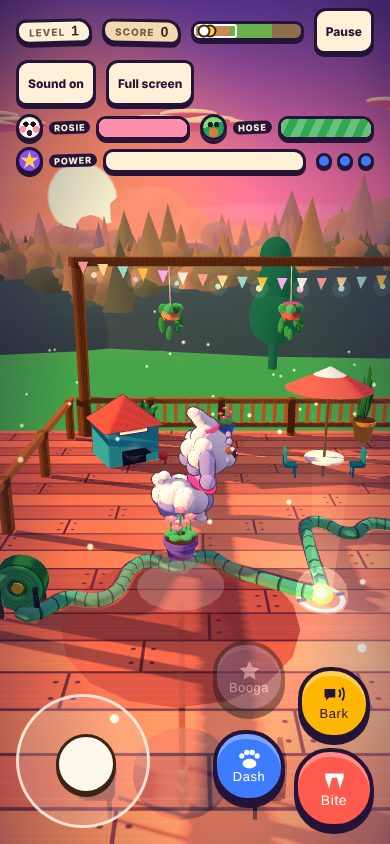
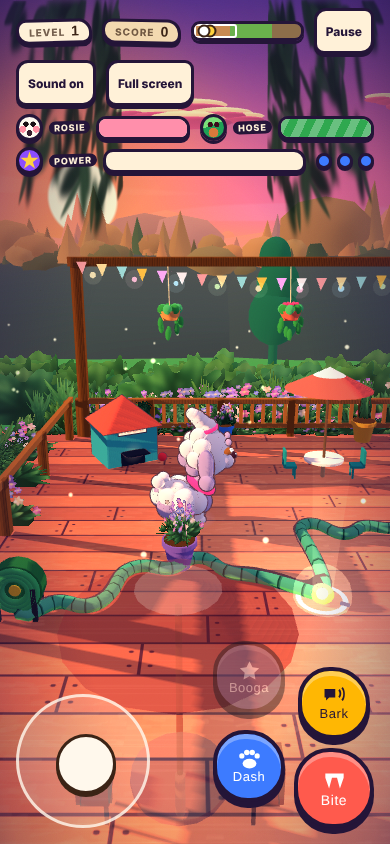
chore: checkpoint painted foliage in progress
Painted billboard foliage, framing leaves and planting density from
design/art/painted-garden.md, while the pass finishes its regression
checks and converts the remaining primitive trees.

Refs: design/art/painted-garden.md

Claude-Session: https://claude.ai/code/session_01JR8fsw3Uh5kViP8MJWMfnz

diff --git a/src/index.html b/src/index.html
@@ -1292,9 +1292,9 @@ let renderer;try{renderer=new THREE.WebGLRenderer({canvas:$('gl'),antialias:true
 renderer.outputEncoding=THREE.sRGBEncoding;renderer.shadowMap.enabled=true;renderer.shadowMap.type=THREE.PCFSoftShadowMap;
 /* ---------- 3D world (three.js) ---------- */
 const zOf=y=>(y-GY0)*DZ,DEPTH=zOf(GY1),UP=new THREE.Vector3(0,1,0);
-const scene=new THREE.Scene();scene.background=new THREE.Color('#ffb062');scene.fog=new THREE.Fog('#ff9a74',1900,6000);
+const scene=new THREE.Scene();scene.background=new THREE.Color('#ffb062');scene.fog=new THREE.Fog('#ff9a74',1500,6000);
 const cam=new THREE.PerspectiveCamera(50,1,10,12000);
-const hemi=new THREE.HemisphereLight('#e08ac0','#3a2a78',.34);scene.add(hemi);const fill=new THREE.DirectionalLight('#6f8fff',.34);scene.add(fill,fill.target);
+const hemi=new THREE.HemisphereLight('#e08ac0','#3a2a78',.40);scene.add(hemi);const fill=new THREE.DirectionalLight('#6f8fff',.34);scene.add(fill,fill.target);
 const sun=new THREE.DirectionalLight('#ff9e63',1.25);sun.castShadow=true;sun.shadow.mapSize.set(/Mobi|Android|iPhone|iPad/i.test(navigator.userAgent)?1024:2048,/Mobi|Android|iPhone|iPad/i.test(navigator.userAgent)?1024:2048);sun.shadow.bias=-.0008;sun.shadow.normalBias=1.5;
 {const s=sun.shadow.camera;s.left=-1000;s.right=1000;s.top=1000;s.bottom=-1000;s.near=100;s.far=3200;}scene.add(sun,sun.target);
 /* art v2: no point lights; lanterns, bulbs and windows are unlit glow shapes */
@@ -1322,6 +1322,140 @@ function flat(geo,mat,x,y,z){geo.rotateX(-Math.PI/2);const m=new THREE.Mesh(geo,
 function ctex(w,h,rx,ry,paint){const c=document.createElement('canvas');c.width=w;c.height=h;paint(c.getContext('2d'));const tx=new THREE.CanvasTexture(c);tx.wrapS=tx.wrapT=THREE.RepeatWrapping;tx.repeat.set(rx,ry);tx.encoding=THREE.sRGBEncoding;tx.anisotropy=4;return tx;}
 let s2=77;const r2=()=>{s2=(s2*16807)%2147483647;return (s2-1)/2147483646};
 const anim=[];
+/* ====================== painted-garden.md item 1: the foliage atlas ======================
+   One 1024x1024 runtime canvas, 4x4 cells of 256. Every cell is built from individual tapered
+   leaf/petal strokes so the silhouette is ragged at the pixel level -- that edge frequency, not
+   colour, is what separates "painted" from "moulded". Hue reservation (section 3) is enforced
+   here: no cell paints anything in #ffb062-#ffd23f (weak spot) or within 25 deg of #ff0f46
+   (warnings). Flower petals are lilac / rose / white / blue-violet only.
+   Cells 0-3 bushes, 4-6 flower clumps, 7-8 ferns, 9-11 grass tufts, 12-13 ivy, 14-15 far (blurred). */
+const FCU=i=>[(i%4)*.25,.75-Math.floor(i/4)*.25];
+const FOL_TEX=ctex(1024,1024,1,1,g=>{
+  const S=256;
+  const PAL=[['#15301f','#255436','#3f8249','#5fa85c'],['#1a3524','#2c5f3b','#4a8f51','#6fb766'],
+             ['#122b1c','#21502f','#3b7a44','#79bd6e'],['#1e3a27','#306844','#53995a','#86c67a'],
+             ['#17321e','#28583a','#44864c','#6aae62']];
+  const PET=[['#cfa9ec','#b78ae0','#9c76cf'],['#f0a2d2','#e086c2','#c96fae'],['#f7f3ea','#e7decb','#cfc4ae'],['#a9b4ea','#8d9ae0','#7480cc']];
+  const bl=(c,x0,y0,len,ang,wid,p,lift)=>{ // one tapered leaf stroke, base-dark / tip-lit
+    const tx=x0+Math.cos(ang)*len,ty=y0+Math.sin(ang)*len,mx=(x0+tx)/2,my=(y0+ty)/2,
+          nx=-Math.sin(ang)*wid,ny=Math.cos(ang)*wid;
+    const gr=c.createLinearGradient(x0,y0,tx,ty);
+    gr.addColorStop(0,p[0]);gr.addColorStop(.45,p[1]);gr.addColorStop(.82,p[2+(lift?1:0)]);gr.addColorStop(1,p[2+(lift?1:0)]);
+    c.fillStyle=gr;c.beginPath();c.moveTo(x0,y0);
+    c.quadraticCurveTo(mx+nx*1.15,my+ny*1.15,tx,ty);c.quadraticCurveTo(mx-nx,my-ny,x0,y0);c.fill();};
+  const mass=(c,n,p,cx,cy,rx,ry,lmin,lmax,wmin,wmax,core)=>{
+    if(core){c.save();c.globalAlpha=.85;c.fillStyle=p[0];c.beginPath();c.ellipse(cx,cy+ry*.35,rx*.78,ry*.62,0,0,7);c.fill();c.restore();}
+    for(let i=0;i<n;i++){const u=i/n,a=-.22+Math.PI*1.44*((i*7919%n)/n)+r2()*.3, // spread over the upper hemisphere
+        q=Math.sqrt(r2()),ox=cx+Math.cos(a)*rx*q*.55,oy=cy+ry*.25+Math.sin(a)*ry*q*.5,
+        len=lmin+r2()*(lmax-lmin),wid=wmin+r2()*(wmax-wmin),lift=u>.55&&Math.sin(a)>.1;
+      bl(c,ox,oy,len,a+(r2()-.5)*.55,wid,p,lift);}};
+  const petals=(c,n,cx,cy,rx,ry)=>{
+    for(let i=0;i<n;i++){const px=cx+(r2()-.5)*rx*2,py=cy+(r2()-.5)*ry*2,pp=PET[Math.floor(r2()*PET.length)],rr=7+r2()*7;
+      for(let k=0;k<6;k++){const a=k/6*6.283+r2()*.4;c.fillStyle=pp[k%3];c.beginPath();
+        c.ellipse(px+Math.cos(a)*rr*.72,py+Math.sin(a)*rr*.72,rr*.52,rr*.38,a,0,7);c.fill();}
+      c.fillStyle='#e9ddb4';c.beginPath();c.arc(px,py,rr*.3,0,7);c.fill();}};
+  const frond=(c,x0,y0,len,ang,p,pn)=>{
+    c.strokeStyle=p[1];c.lineWidth=2.4;c.beginPath();c.moveTo(x0,y0);
+    const tx=x0+Math.cos(ang)*len,ty=y0+Math.sin(ang)*len;c.quadraticCurveTo(x0+Math.cos(ang)*len*.5-Math.sin(ang)*18,y0+Math.sin(ang)*len*.5+Math.cos(ang)*18,tx,ty);c.stroke();
+    for(let i=1;i<pn;i++){const u=i/pn,bx=x0+Math.cos(ang)*len*u-Math.sin(ang)*18*2*u*(1-u),by=y0+Math.sin(ang)*len*u+Math.cos(ang)*18*2*u*(1-u),pl=(1-u*.72)*len*.3;
+      bl(c,bx,by,pl,ang+1.15,3.2,p,u>.4);bl(c,bx,by,pl,ang-1.15,3.2,p,u>.4);}};
+  const blades=(c,n,p,hmin,hmax,spread)=>{
+    for(let i=0;i<n;i++){const x=128+(r2()-.5)*spread,a=1.5708+(x-128)/spread*1.15+(r2()-.5)*.35;
+      bl(c,x,4+r2()*10,hmin+r2()*(hmax-hmin),a,3.4+r2()*3.4,p,r2()<.4);}};
+  const ivy=(c,n,p)=>{
+    c.strokeStyle=p[0];c.lineWidth=2.2;
+    for(let k=0;k<5;k++){const x=26+k*52;c.beginPath();c.moveTo(x,250);c.quadraticCurveTo(x+(r2()-.5)*60,128,x+(r2()-.5)*50,6);c.stroke();}
+    for(let i=0;i<n;i++){const x=r2()*256,y=r2()*250,a=-1.2+r2()*2.4,l=16+r2()*20;
+      bl(c,x,y,l,a,l*.42,p,r2()<.45);bl(c,x,y,l*.8,a+2.4,l*.34,p,false);}};
+  const cell=(i,fn)=>{const col=i%4,row=Math.floor(i/4);g.save();g.beginPath();g.rect(col*S+3,row*S+3,S-6,S-6);g.clip();
+    g.translate(col*S,(row+1)*S);g.scale(1,-1);fn(g);g.restore();};
+  /* 0-3 bushes, four densities */
+  cell(0,c=>mass(c,82,PAL[0],128,10,120,118,52,96,7,15,true));
+  cell(1,c=>mass(c,64,PAL[1],128,8,116,104,48,88,7,14,true));
+  cell(2,c=>mass(c,46,PAL[2],128,8,112,122,58,104,5,10,false));
+  cell(3,c=>mass(c,38,PAL[3],128,6,118,72,34,64,6,13,true));
+  /* 4-6 flowering clumps -- reserved palette only */
+  cell(4,c=>{mass(c,44,PAL[1],128,8,112,86,40,74,6,12,true);petals(c,9,128,96,86,44);});
+  cell(5,c=>{mass(c,40,PAL[3],128,8,106,76,36,68,6,12,true);petals(c,11,128,104,92,52);});
+  cell(6,c=>{mass(c,34,PAL[2],128,6,100,64,30,58,5,11,false);petals(c,12,128,118,96,66);});
+  /* 7-8 ferns */
+  cell(7,c=>{for(let k=0;k<7;k++)frond(c,128+(k-3)*13,6,120+r2()*78,1.5708+(k-3)*.21,PAL[0],13);});
+  cell(8,c=>{for(let k=0;k<9;k++)frond(c,128+(k-4)*15,8,86+r2()*62,1.5708+(k-4)*.26,PAL[3],11);});
+  /* 9-11 grass tufts */
+  cell(9,c=>blades(c,62,PAL[4],120,228,104));
+  cell(10,c=>blades(c,54,PAL[1],78,156,116));
+  cell(11,c=>blades(c,46,PAL[3],44,98,136));
+  /* 12-13 ivy sheets */
+  cell(12,c=>ivy(c,62,PAL[0]));
+  cell(13,c=>ivy(c,52,PAL[2]));
+  /* 14-15 far bushes: painted, then blurred through the canvas filter (item 5, fake DoF) */
+  for(const [i,pi] of [[14,0],[15,1]]){const off=document.createElement('canvas');off.width=off.height=S;const oc=off.getContext('2d');
+    oc.translate(0,S);oc.scale(1,-1);mass(oc,70,PAL[pi],128,10,118,126,54,100,9,18,true);
+    const col=i%4,row=Math.floor(i/4);g.save();g.filter='blur(6px)';g.drawImage(off,col*S,row*S);g.restore();g.filter='none';}
+});
+FOL_TEX.wrapS=FOL_TEX.wrapT=THREE.ClampToEdgeWrapping;FOL_TEX.repeat.set(1,1);
+const FANU={a:{value:new THREE.Vector4(0,0,1,0)},b:{value:new THREE.Vector4(0,0,1,0)}};
+/* Y-axis billboarding + per-instance atlas cell, patched into MeshToonMaterial so RAMP still lights
+   the leaves. alphaTest .5 / transparent false: no sorting, still writes depth, Rosie stays occluded
+   correctly. uFanA/uFanB squash any plant standing inside a live telegraph to a quarter height so a
+   warning can never lose to a flower (section 3). */
+function folMat(bb){
+  const m=new THREE.MeshToonMaterial({map:FOL_TEX,gradientMap:RAMP,alphaTest:.5,transparent:false,side:THREE.DoubleSide});
+  m.onBeforeCompile=sh=>{
+    sh.uniforms.uFanA=FANU.a;sh.uniforms.uFanB=FANU.b;
+    let v=sh.vertexShader.replace('#include <uv_vertex>','vUv = uv*0.25 + aCell;');
+    if(bb){
+      v=v.replace('#include <beginnormal_vertex>',[
+        'vec3 iO = instanceMatrix[3].xyz;',
+        'float sX = length(instanceMatrix[0].xyz);',
+        'float sY = length(instanceMatrix[1].xyz);',
+        'vec3 camR = normalize(vec3(viewMatrix[0][0],0.0,viewMatrix[2][0])+vec3(1e-5,0.0,0.0));',
+        'vec3 camF = normalize(vec3(viewMatrix[0][2],0.0,viewMatrix[2][2])+vec3(0.0,0.0,1e-5));',
+        'float fk = 1.0;',
+        'fk = min(fk, mix(1.0,0.25, uFanA.w*(1.0-smoothstep(uFanA.z*0.72,uFanA.z,distance(iO.xz,uFanA.xy)))));',
+        'fk = min(fk, mix(1.0,0.25, uFanB.w*(1.0-smoothstep(uFanB.z*0.72,uFanB.z,distance(iO.xz,uFanB.xy)))));',
+        'vec3 objectNormal = normalize(camF*0.78 + camR*position.x*1.35 + vec3(0.0,0.45,0.0));'].join('\n'))
+       .replace('#include <defaultnormal_vertex>','vec3 transformedNormal = normalMatrix * objectNormal;')
+       .replace('#include <begin_vertex>','vec3 transformed = iO + camR*(position.x*sX) + vec3(0.0,1.0,0.0)*(position.y*sY*fk);')
+       .replace('#include <worldpos_vertex>','vec4 worldPosition = vec4(transformed,1.0);')
+       .replace('#include <project_vertex>','vec4 mvPosition = modelViewMatrix * vec4(transformed,1.0);\ngl_Position = projectionMatrix * mvPosition;');
+    }
+    sh.vertexShader='attribute vec2 aCell;\nuniform vec4 uFanA;\nuniform vec4 uFanB;\n'+v;
+  };
+  m.customProgramCacheKey=()=>bb?'folBB':'folFX';
+  return m;}
+const FQ=new THREE.PlaneGeometry(1,1).translate(0,.5,0);
+/* instance banks: FOL = camera-facing yard planting, FIVY = wall-flat ivy sheets */
+const FOL=[],FIVY=[];
+const plant=(x,z,w,h,cell,tint,ry,bank,y)=>{(bank||FOL).push({x:x,z:z,w:w,h:h,c:cell,t:tint,ry:ry||0,y:y||0});return true;};
+function buildFol(list,bb){
+  if(!list.length)return null;
+  const geo=FQ.clone(),cells=new Float32Array(list.length*2),d=new THREE.Object3D(),col=new THREE.Color();
+  for(let i=0;i<list.length;i++){const u=FCU(list[i].c);cells[i*2]=u[0];cells[i*2+1]=u[1];}
+  geo.setAttribute('aCell',new THREE.InstancedBufferAttribute(cells,2));
+  const im=new THREE.InstancedMesh(geo,folMat(bb),list.length);
+  for(let i=0;i<list.length;i++){const p=list[i];
+    d.position.set(p.x,p.y||0,p.z);d.rotation.set(0,p.ry,0);d.scale.set(p.w,p.h,1);d.updateMatrix();im.setMatrixAt(i,d.matrix);
+    im.setColorAt(i,col.set(p.t).convertSRGBToLinear());}
+  im.frustumCulled=false;im.castShadow=false;im.receiveShadow=true;scene.add(im);return im;}
+/* static crossed-quad clusters for things that tip, grow or sit on a moving parent (pots, beds):
+   one merged mesh per plant instead of a rosette of spheres. */
+const CLM=new THREE.MeshToonMaterial({map:FOL_TEX,gradientMap:RAMP,alphaTest:.5,transparent:false,side:THREE.DoubleSide});
+function cluster(par,quads){
+  const n=quads.length,pos=new Float32Array(n*18),nor=new Float32Array(n*18),uv=new Float32Array(n*12);
+  const C=[[-.5,0],[.5,0],[.5,1],[-.5,1]],TRI=[0,1,2,0,2,3];
+  for(let i=0;i<n;i++){const q=quads[i],ca=Math.cos(q.ry||0),sa=Math.sin(q.ry||0),u=FCU(q.c);
+    for(let k=0;k<6;k++){const c=C[TRI[k]],lx=c[0]*q.w,ly=c[1]*q.h,o=(i*6+k)*3;
+      pos[o]=q.x+lx*ca;pos[o+1]=q.y+ly;pos[o+2]=q.z-lx*sa;
+      let nx=sa*.8+ca*c[0]*1.3,ny=.45,nz=ca*.8-sa*c[0]*1.3,l=Math.hypot(nx,ny,nz)||1;
+      nor[o]=nx/l;nor[o+1]=ny/l;nor[o+2]=nz/l;
+      const t=(i*6+k)*2;uv[t]=u[0]+(c[0]+.5)*.25;uv[t+1]=u[1]+c[1]*.25;}}
+  const g=new THREE.BufferGeometry();
+  g.setAttribute('position',new THREE.BufferAttribute(pos,3));
+  g.setAttribute('normal',new THREE.BufferAttribute(nor,3));
+  g.setAttribute('uv',new THREE.BufferAttribute(uv,2));
+  const m=new THREE.Mesh(g,CLM);m.castShadow=false;m.receiveShadow=true;par.add(m);return m;}
+
 /* ---------- art pass: golden-hour toy diorama (see design/art/art-bible.md) ---------- */
 /* painted sky dome v2 (design/art/art-direction-v2.md): three stops, sun disc + halo, two cloud bands, BOOGA stripes */
 const skyU={top:{value:new THREE.Color('#3b2f8f')},mid:{value:new THREE.Color('#f07a9c')},bot:{value:new THREE.Color('#ffb062')},booga:{value:0},time:{value:0},
@@ -1369,7 +1503,14 @@ flat(new THREE.PlaneGeometry(1320,GD),M('#ffffff',{map:ctex(512,512,1320/600,GD/
      g.save();g.globalAlpha=a;g.translate(x,y);g.scale(rx/rr,ry/rr);g.fillStyle=gr;g.beginPath();g.arc(0,0,rr,0,7);g.fill();g.restore();}});
  PT.wrapS=PT.wrapT=THREE.ClampToEdgeWrapping;
  const pl=flat(new THREE.PlaneGeometry(1320,GD),new THREE.MeshBasicMaterial({map:PT,transparent:true,opacity:.34,depthWrite:false,blending:THREE.AdditiveBlending}),340,.45,GZ);
- pl.receiveShadow=false;}
+ pl.receiveShadow=false;
+ /* painted-garden item 4: 340 low-contrast brush strokes over the planks so the biggest flat in the
+    play frame stops reading as a fill. Hue drifts +-8 deg around the plank red; no amber, no red-pink. */
+ const BW=ctex(256,256,5,GD/320,g=>{for(let i=0;i<340;i++){const x=r2()*256,y=r2()*256,l=8+r2()*22,a=(r2()-.5)*.5;
+   g.strokeStyle=r2()<.5?'rgba(255,214,176,.085)':'rgba(96,44,46,.085)';g.lineWidth=2+r2()*4.5;g.lineCap='round';
+   g.beginPath();g.moveTo(x,y);g.lineTo(x+Math.cos(a)*l,y+Math.sin(a)*l);g.stroke();}});
+ const bwp=flat(new THREE.PlaneGeometry(1320,GD),new THREE.MeshBasicMaterial({map:BW,transparent:true,opacity:.55,depthWrite:false}),340,.35,GZ);
+ bwp.receiveShadow=false;}
 /* lawn: one un-tiled painting. Mown stripes 260 wide, 7 clover patches, 20 soft sunlit dapples */
 flat(new THREE.PlaneGeometry(2400,GD),M('#ffffff',{map:ctex(512,512,1,1,g=>{const sx=512/2400,sz=512/GD;
   for(let i=0;i<10;i++){g.fillStyle=i%2?'#4e8f4b':'#3a7043';g.fillRect(i*260*sx,0,260*sx+1,512);}
@@ -1401,7 +1542,7 @@ for(const [x,c,fc] of [[215,'#f4a259',null],[485,'#e76f51','#ff4f79'],[760,'#90b
 box(scene,whiteM2,2040,8,6,2020,72,-26);box(scene,whiteM2,2040,8,6,2020,30,-26);
 {const im=new THREE.InstancedMesh(G_B,whiteM2,85),d=new THREE.Object3D();for(let i=0;i<85;i++){d.position.set(1014+i*24,44,-22);d.scale.set(14,88,5);d.updateMatrix();im.setMatrixAt(i,d.matrix);}im.castShadow=true;scene.add(im);}
 box(scene,whiteM2,6,8,DEPTH+80,3030,72,DEPTH/2);box(scene,whiteM2,6,8,DEPTH+80,3030,30,DEPTH/2);for(let z=0;z<=DEPTH+40;z+=120)box(scene,whiteM2,12,88,12,3030,44,z);
-for(let i=0;i<9;i++){const x=1080+i*235;sph(scene,leafD,44,x,26,-70,1,.9,1);sph(scene,leafM,34,x+38,24,-64);sph(scene,leafL,24,x+8,52,-66);}
+/* the 27 fence-line shrub spheres are now billboard instances -- see the density block below */
 for(const x of [1190,1236,1880,1924]){cyl(scene,leafM,3,130,x,65,-46);const h=grp(scene,x,134,-42);add(h,G_C,M('#ffd23f'),0,0,0,22,4,22).rotation.x=Math.PI/2;add(h,G_C,M('#6b3e1e'),0,0,2,10,5,10).rotation.x=Math.PI/2;anim.push(tt=>{h.rotation.z=Math.sin(tt+x)*.1;});}
 /* apple tree + shed */
 cyl(scene,M('#6b4423'),16,200,2350,100,-150);for(const [x,y,z,r] of [[0,250,0,95],[-70,210,10,70],[75,215,-10,72],[-20,300,-20,62],[40,290,30,58]])sph(scene,r>70?leafD:leafM,r,2350+x,y,-150+z);
@@ -1488,7 +1629,12 @@ for(const m of MUD){flat(new THREE.CircleGeometry(m.r,28),M('#6b4423',{roughness
 /* obstacles */
 const tabs=[];
 const potGeo=new THREE.CylinderGeometry(23,16,38,18),rimGeo=new THREE.CylinderGeometry(26,26,8,18);
-function flower(g,c,x,y,z,r=6){cyl(g,leafM,1.4,y,x,y/2,z,false);const m=M(c,{roughness:.5});for(let q=0;q<5;q++){const a=q/5*Math.PI*2;sph(g,m,r*.72,x+Math.cos(a)*r*.8,y,z+Math.sin(a)*r*.8,1,.6,1);}sph(g,M('#ffe066'),r*.55,x,y+1.5,z,1,.7,1);}
+/* painted-garden item 1: a flower is three crossed painted quads, not five squashed spheres. The
+   per-bed tint argument is dropped on purpose -- section 3 reserves #ff4f79 and #ffd23f for the
+   warnings and the weak spot, so bed flowers take the atlas's lilac/rose/white palette instead. */
+function flower(g,c,x,y,z,r=6){const k=4+Math.floor(r2()*3);const q=[];
+  for(let i=0;i<3;i++)q.push({x:x+(r2()-.5)*r*.5,y:0,z:z+(r2()-.5)*r*.5,w:r*4.6,h:y+r*3.4,c:k,ry:i*1.05+r2()*.3});
+  cluster(g,q);}
 for(const o of OBST){const g=grp(scene,o.x,0,zOf(o.y)),r=o.r;
   if(o.k==='table'){cyl(g,M('#f4f1de',{roughness:.4}),r,5,0,38,0);cyl(g,M('#b08968'),4,38,0,19,0);cyl(g,M('#6b4f3a'),2.5,150,0,113,0);cone(g,M('#ff6b5a',{roughness:.7}),82,40,0,196,0);cone(g,M('#f7f3ea'),30,16,0,210,0,false);
     for(const s of [-1,1]){const cm=M('#2a9d8f');box(g,cm,22,5,24,s*(r+26),24,0);box(g,cm,4,34,24,s*(r+38),40,0);for(const dz of [-9,9])box(g,cm,3,24,3,s*(r+18),12,dz);}
@@ -1496,7 +1642,7 @@ for(const o of OBST){const g=grp(scene,o.x,0,zOf(o.y)),r=o.r;
   else if(o.k==='grill'){const bm=M('#22242a',{roughness:.3,metalness:.5});sph(g,bm,25,0,52,0,1,.85,1);cyl(g,M('#aaaaaa',{metalness:.6,roughness:.3}),3,6,0,76,0);for(let k=0;k<3;k++){const a=k/3*Math.PI*2,l=cyl(g,bm,1.8,44,Math.cos(a)*15,20,Math.sin(a)*15);l.rotation.z=-Math.cos(a)*.22;l.rotation.x=Math.sin(a)*.22;}
     const sm=[0,1,2].map(k=>sph(g,MB('#dddddd',.35),8,0,90,0,1,1,1,false));anim.push(tt=>sm.forEach((s,k)=>{const u=(tt*.5+k/3)%1;s.position.set(Math.sin(u*6+k)*8,84+u*90,0);s.scale.setScalar(7+u*14);s.material.opacity=.4*(1-u);}));}
   else if(o.k==='bed'){cyl(g,M('#b5543c'),r,16,0,8,0);cyl(g,M('#4a2f1c',{roughness:1}),r-7,17,0,8.5,0);const fc=['#ff4f79','#ffd23f','#9b5de5','#ff9f1c','#ffffff','#ff4f79','#ffd23f'];
-    fc.forEach((c,k)=>{const a=k/7*Math.PI*2,d=k?r*.55:0;flower(g,c,Math.cos(a)*d,34+(k%3)*8,Math.sin(a)*d,7);});for(let k=0;k<8;k++){const a=k/8*Math.PI*2+.3;sph(g,k%2?leafM:leafL,8,Math.cos(a)*r*.72,22,Math.sin(a)*r*.72,1,.7,1);}}
+    fc.forEach((c,k)=>{const a=k/7*Math.PI*2,d=k?r*.55:0;flower(g,c,Math.cos(a)*d,34+(k%3)*8,Math.sin(a)*d,7);});/* bed skirt foliage comes from the billboard drift below */}
   else if(o.k==='bath'){const st=M('#aab3ba',{roughness:.5});cyl(g,st,17,6,0,3,0);cyl(g,st,7,50,0,28,0);add(g,new THREE.CylinderGeometry(33,14,12,20),st,0,58,0,1,1,1);cyl(g,M('#7ec8e3',{roughness:.1}),27,2,0,64,0,false);
     const b=grp(g,18,72,0);sph(b,M('#e76f51'),8,0,0,0,1.2,.9,.9);sph(b,M('#e76f51'),5,8,6,0);cone(b,M('#ffb703'),2,6,14,6,0).rotation.z=-Math.PI/2;anim.push(tt=>{b.position.y=72+Math.abs(Math.sin(tt*5))*4;b.rotation.y=Math.sin(tt*.7)*1.5;});}
   else if(o.k==='pool'){const pm=M('#39b9ea',{roughness:.3});for(let k=0;k<3;k++)add(g,new THREE.TorusGeometry(r-4,7,10,32),pm,0,7+k*9,0,1,1,1).rotation.x=Math.PI/2;cyl(g,M('#9be4f5',{roughness:.05}),r-6,2,0,22,0,false);
@@ -1508,9 +1654,11 @@ for(const o of OBST){const g=grp(scene,o.x,0,zOf(o.y)),r=o.r;
 }
 /* pots (rebuilt logic array each level, same order) */
 const pot3=makePots().map(p=>{const g=grp(scene,p.x,0,zOf(p.y)),piv=grp(g,0,0,0);piv.scale.setScalar(p.s);add(piv,potGeo,M(p.c,{roughness:.45}),0,19,0,1,1,1);add(piv,rimGeo,M(p.c,{roughness:.45}),0,40,0,1,1,1);cyl(piv,M('#4a2f1c',{roughness:1}),23,2,0,44,0,false);
-  if(p.kind==='fern'){for(let i=0;i<10;i++){const a=i/10*Math.PI*2,l=sph(piv,i%2?leafL:leafM,1,Math.cos(a)*16,62,Math.sin(a)*16,5,26,9);l.rotation.z=-Math.cos(a)*.75;l.rotation.x=Math.sin(a)*.75;}sph(piv,leafD,1,0,70,0,5,30,5);}
-  else if(p.kind==='tall'){for(let i=0;i<6;i++){const a=i/6*Math.PI*2,h=34+(i%3)*12,l=sph(piv,M('#2e7d32',{roughness:.5}),1,Math.cos(a)*7,44+h,Math.sin(a)*7,5,h,2.5);l.rotation.y=a;l.rotation.z=-Math.cos(a)*.2;l.rotation.x=Math.sin(a)*.2;}}
-  else{[[-14,74,0],[0,90,4],[14,76,-4],[-5,66,10],[8,64,-9]].forEach(([x,y,z])=>flower(piv,p.fc,x,y,z,6));for(let i=0;i<6;i++){const a=i/6*Math.PI*2;sph(piv,leafL,9,Math.cos(a)*15,50,Math.sin(a)*15,1,.5,.7);}}
+  /* painted-garden item 1: the pots keep their ceramic cylinders, the green goes billboard --
+     one merged crossed-quad cluster per pot in place of 10-40 spheres. */
+  {const q=[],K=p.kind==='fern'?[7,8]:p.kind==='tall'?[9,10]:[4,5,6];
+   for(let i=0;i<5;i++)q.push({x:(r2()-.5)*18,y:44,z:(r2()-.5)*18,w:p.kind==='tall'?52:74,h:p.kind==='tall'?120:86,c:K[Math.floor(r2()*K.length)],ry:i*.72+r2()*.4});
+   cluster(piv,q);}
   const sp=sph(g,M('#4a2f1c',{roughness:1}),1,0,2,0,34,3,26);sp.visible=false;return {g,piv,sp};});
 /* hose reel, sprinklers, puddles, treats */
 {const g=grp(scene,REEL.x,0,zOf(REEL.y));const d=cyl(g,M('#2b7a3d',{roughness:.35}),32,22,0,40,0);d.rotation.x=Math.PI/2;for(let k=0;k<3;k++){const tr=add(g,new THREE.TorusGeometry(26-k*5,4,8,24),M('#47b964',{roughness:.3}),0,40,12,1,1,1);}
@@ -1847,6 +1995,35 @@ const blobT=[...Array(10)].map(()=>sph(scene,M('#4cc9f0',{roughness:.05,transpar
 const beamT=[...Array(4)].map(()=>{const g=grp(scene);cyl(g,MB('#78c8ff',.45),1,1,0,0,0,false);cyl(g,MB('#ffffff',.9),.35,1,0,0,0,false);return g;});
 const _a=new THREE.Vector3(),_b=new THREE.Vector3(),_d=new THREE.Vector3(),_v=new THREE.Vector3();
 function beam(g,ax,ah,ay,bx,bh,by,rad){_a.set(ax,ah,zOf(ay));_b.set(bx,bh,zOf(by));_d.subVectors(_b,_a);const len=_d.length()||1;g.position.copy(_a).addScaledVector(_d,.5);g.scale.set(rad,len,rad);g.quaternion.setFromUnitVectors(UP,_d.multiplyScalar(1/len));g.visible=true;}
+
+/* ====================== painted-garden.md item 2: framing foliage ======================
+   Two blurred leaf masses parented to the camera at z=-120, overhanging the top corners so the
+   player is standing IN the garden rather than looking at one. transparent + depthTest:false puts
+   them in the transparent pass over the world; a LOW renderOrder keeps them under the telegraph
+   fan, the lasso ring and the water, and they fade to nothing whenever a warning is live. They
+   never reach past the outer third of the frame. */
+scene.add(cam);
+const frameTex=ctex(512,512,1,1,g=>{
+  const LP=['#16261b','#1d3122','#122018','#243c28'];
+  const spray=(c,n,lo,hi,wmul)=>{for(let i=0;i<n;i++){const q=Math.pow(r2(),1.35),x=-30+q*430,y=-20+Math.pow(r2(),1.5)*300,
+      a=.30+r2()*1.45,l=lo+r2()*(hi-lo),w=(13+r2()*22)*wmul,tx=x+Math.cos(a)*l,ty=y+Math.sin(a)*l,
+      mx=(x+tx)/2,my=(y+ty)/2,nx=-Math.sin(a)*w,ny=Math.cos(a)*w;
+    c.fillStyle=LP[Math.floor(r2()*4)];c.beginPath();c.moveTo(x,y);
+    c.quadraticCurveTo(mx+nx*1.25,my+ny*1.25,tx,ty);c.quadraticCurveTo(mx-nx,my-ny,x,y);c.fill();}};
+  const off=document.createElement('canvas');off.width=off.height=512;const c=off.getContext('2d');
+  spray(c,46,70,150,1.18);                       /* soft bed, blurred hard  */
+  g.filter='blur(7px)';g.drawImage(off,0,0);g.filter='none';
+  const of2=document.createElement('canvas');of2.width=of2.height=512;const c2=of2.getContext('2d');
+  spray(c2,40,56,128,.82);                       /* near leaves, only lightly softened */
+  g.globalAlpha=.88;g.filter='blur(2.5px)';g.drawImage(of2,0,0);g.filter='none';g.globalAlpha=1;});
+frameTex.wrapS=frameTex.wrapT=THREE.ClampToEdgeWrapping;
+let frameK=1;const frameQ=[-1,1].map(sx=>{
+  const m=new THREE.Mesh(new THREE.PlaneGeometry(1,1),new THREE.MeshBasicMaterial({map:frameTex,transparent:true,opacity:.92,depthTest:false,depthWrite:false,fog:false}));
+  m.renderOrder=-5;m.frustumCulled=false;m.userData.sx=sx;cam.add(m);return m;});
+anim.push(tt=>{const hh=Math.tan(cam.fov*Math.PI/360)*120,hw=hh*cam.aspect,w=hw*.63,h=hh*.80;
+  for(const m of frameQ){const sx=m.userData.sx;m.position.set(sx*(hw-w/2),hh-h/2,-120);m.scale.set(w*sx,h,1);
+    m.rotation.z=reduce?0:Math.sin(tt*1.885+(sx>0?1.7:0))*.02;}});
+
 /* particles */
 const PMAX=1400,pPos=new Float32Array(PMAX*3),pCol=new Float32Array(PMAX*3),pGeo=new THREE.BufferGeometry();
 pGeo.setAttribute('position',new THREE.BufferAttribute(pPos,3));pGeo.setAttribute('color',new THREE.BufferAttribute(pCol,3));
@@ -1882,16 +2059,74 @@ function updCritters(dt){
 /* yard dressing */
 {const d=new THREE.Object3D(),col=new THREE.Color();
   // grass tufts
-  const tg=new THREE.ConeGeometry(1,1,4),tu=new THREE.InstancedMesh(tg,M('#ffffff'),650),gc=['#3a7043','#2f5f40','#4e8f4b','#3a7043','#2f5f40','#cbc271'],props=OBST.filter(o=>o.x>1060);
-  /* clustered at the fence, the deck edge, prop bases and the front verge; the middle of the lawn stays open */
-  for(let i=0;i<650;i++){let x,z;const m=i%10;
-    if(m<3){x=1030+r2()*1960;z=r2()*r2()*150;}
-    else if(m<5){x=1026+r2()*r2()*130;z=r2()*DEPTH;}
-    else if(m<8){const o=props[Math.floor(r2()*props.length)],a=r2()*6.283,q=o.r+10+r2()*r2()*70;x=o.x+Math.cos(a)*q;z=zOf(o.y)+Math.sin(a)*q*.9;}
-    else{x=1030+r2()*1960;z=DEPTH-r2()*r2()*170;}
-    x=clamp(x,1026,2992);z=clamp(z,0,DEPTH);const k=.6+r2()*r2()*1.6;d.position.set(x,8*k-1,z);d.rotation.set((r2()-.5)*.5,r2()*3,(r2()-.5)*.5);d.scale.set(4*k,16*k,4*k);d.updateMatrix();tu.setMatrixAt(i,d.matrix);tu.setColorAt(i,col.set(gc[i%6]).convertSRGBToLinear());}
-  tu.frustumCulled=false;
-  tu.receiveShadow=true;scene.add(tu);d.rotation.set(0,0,0);
+  const props=OBST.filter(o=>o.x>1060);
+  /* ================= painted-garden.md item 3: plant the yard =================
+     ~1,500 camera-facing painted billboards replacing the 650 cone tufts, laid out on the doc's
+     zone shares. The combat lane stays open: anything standing in the middle of the lawn and not
+     tucked against a prop is capped at 55 units, below Rosie's shoulder. */
+  const SKP=OBST.filter(o=>o.x>1060).map(o=>({x:o.x,z:zOf(o.y),r:o.r}))
+    .concat(MUD.map(m=>({x:m.x,z:zOf(m.y),r:m.r}))).concat(SPRS.map(s=>({x:s.x,z:zOf(s.y),r:26})));
+  const inGarden=(x,z)=>x>2240&&x<2988&&z>60&&z<1336;
+  const nearProp=(x,z)=>SKP.some(p=>Math.hypot(x-p.x,z-p.z)<p.r+85);
+  const lane=(x,z,h)=>(z>200&&z<DEPTH-170&&!nearProp(x,z))?Math.min(h,55):h;
+  const TINT=['#ffffff','#f2e8d8','#dfe8ff','#fff0dd','#e6f0e2','#ffe9ef','#d8e4f2','#fdf3e0'];
+  const tint=()=>TINT[Math.floor(r2()*TINT.length)];
+  const pick1=a=>a[Math.floor(r2()*a.length)];
+  const BUSH=[0,1,2,3],FERN=[7,8],GRS=[9,10,11],FLW=[4,5,6],FAR=[14,15];
+  /* 30% fence line and back border */
+  for(let i=0;i<190;i++){const x=1000+r2()*2020,z=-42-r2()*r2()*96,h=128+r2()*96; // behind the pickets, pre-blurred
+    plant(x,z,h*(1.05+r2()*.5),h,pick1(FAR),tint());}
+  for(let i=0;i<330;i++){const x=1026+r2()*1966,z=r2()*r2()*132;
+    if(inGarden(x,z))continue;
+    const r=r2(),c=r<.46?pick1(BUSH):r<.62?pick1(FERN):r<.80?pick1(FLW):pick1(GRS),h=lane(x,z,62+r2()*r2()*118);
+    plant(x,z,h*(.9+r2()*.6),h,c,tint());}
+  /* 20% deck edge and front verge */
+  for(let i=0;i<160;i++){const x=1024+r2()*r2()*140,z=r2()*DEPTH,h=lane(x,z,58+r2()*r2()*84);
+    const r=r2(),c=r<.38?pick1(BUSH):r<.58?pick1(FLW):r<.78?pick1(FERN):pick1(GRS);
+    plant(x,z,h*(.9+r2()*.6),h,c,tint());}
+  for(let i=0;i<175;i++){const x=1026+r2()*1966,z=DEPTH-120+r2()*r2()*420;
+    if(inGarden(x,z))continue;
+    const r=r2(),c=r<.34?pick1(BUSH):r<.56?pick1(FLW):r<.74?pick1(FERN):pick1(GRS),h=(z>DEPTH+40?70+r2()*72:lane(x,z,52+r2()*r2()*86));
+    plant(x,z,h*(.95+r2()*.6),h,c,tint());}
+  /* 25% prop skirts */
+  for(let i=0;i<395;i++){const p=SKP[i%SKP.length],a=r2()*6.283,q=p.r+12+r2()*r2()*62,
+      x=clamp(p.x+Math.cos(a)*q,1026,2990),z=clamp(p.z+Math.sin(a)*q*.92,-10,DEPTH+320);
+    const r=r2(),c=r<.3?3:r<.5?pick1(FLW):r<.68?pick1(FERN):pick1(GRS),h=Math.min(inGarden(x,z)?62:90,30+r2()*62);
+    plant(x,z,h*(1+r2()*.6),h,c,tint());}
+  /* 15% lawn drifts -- clumped islands with bare lawn between, all below the shoulder line */
+  for(const [cx,cz] of [[1180,330],[1420,960],[1650,170],[1790,800],[1960,400],[2120,1040],[1290,1250],[2140,190],[1570,520]])
+    for(let i=0;i<28;i++){const a=r2()*6.283,q=Math.sqrt(r2())*104,x=clamp(cx+Math.cos(a)*q*1.35,1026,2990),z=clamp(cz+Math.sin(a)*q,0,DEPTH);
+      if(inGarden(x,z))continue;
+      const r=r2(),c=r<.44?pick1(FLW):r<.72?pick1(GRS):3,h=lane(x,z,26+r2()*32);
+      plant(x,z,h*(1.1+r2()*.7),h,c,tint());}
+  /* 10% ivy sheets, flat against walls: the shed, the lawn fence, the deck rail posts */
+  for(let i=0;i<48;i++)plant(2620+r2()*180,-112,54+r2()*40,62+r2()*58,pick1([12,13]),tint(),0,FIVY,r2()*86);
+  for(let i=0;i<72;i++)plant(1040+r2()*1950,-17,56+r2()*48,50+r2()*42,pick1([12,13]),tint(),0,FIVY,r2()*34);
+  for(let i=0;i<40;i++)plant(1013,-6+r2()*(DEPTH+320),52+r2()*44,48+r2()*46,pick1([12,13]),tint(),Math.PI/2,FIVY,r2()*40);
+  /* the deck is the other half of the frame and the doc's zone table does not reach it. Planting
+     goes BEHIND the two rails -- a deep border outside the playable deck -- never on the planks,
+     because foliage sprouting from decking reads as a bug, not a garden. */
+  /* a blurred far hedge closes the horizon behind the deck, where the bare ground plane showed */
+  for(let i=0;i<120;i++){const x=-260+r2()*1340,z=-112-r2()*r2()*130,h=150+r2()*118;
+    plant(x,z,h*(1.1+r2()*.55),h,pick1(FAR),tint());}
+  for(let i=0;i<135;i++){const x=-70+r2()*1090,z=-28-r2()*r2()*78,h=76+r2()*112;
+    const r=r2(),c=r<.44?pick1(BUSH):r<.62?pick1(FERN):r<.82?pick1(FLW):pick1(GRS);
+    plant(x,z,h*(.95+r2()*.55),h,c,tint());}
+  for(let i=0;i<70;i++){const x=-120+r2()*r2()*104,z=-40+r2()*(DEPTH+360),h=66+r2()*98;
+    const r=r2(),c=r<.4?pick1(BUSH):r<.6?pick1(FLW):r<.8?pick1(FERN):pick1(GRS);
+    plant(x,z,h*(.95+r2()*.55),h,c,tint());}
+  for(let i=0;i<54;i++){const x=-60+r2()*1070,z=-20-r2()*18,h=30+r2()*34;   /* spilling over the rail foot */
+    plant(x,z,h*(1.2+r2()*.7),h,r2()<.5?pick1(FLW):pick1(GRS),tint());}
+  const folI=buildFol(FOL,true),ivyI=buildFol(FIVY,false);
+  /* the telegraph squash uniform: up to two live fans, lerped so plants duck rather than pop */
+  const _fa=[0,0],_ft=[0,0];
+  anim.push(()=>{const live=attacks.filter(a=>a.t<a.tele&&a.o).slice(0,2);
+    for(let k=0;k<2;k++){const a=live[k],u=k?FANU.b.value:FANU.a.value;
+      if(a){u.x=a.o.x;u.y=zOf(a.o.y);u.z=Math.max(140,a.range||260);_ft[k]=1;}else _ft[k]=0;
+      _fa[k]+=(_ft[k]-_fa[k])*.22;u.w=_fa[k];}
+    const warn=_ft[0]>0||_ft[1]>0||(Lass.ph!=='off');
+    frameK+=((warn?0:1)-frameK)*.2;for(const f of frameQ)f.material.opacity=.92*frameK;});
+
   // stepping stones from the deck to the garden
   const stM=M('#cdbfae'),stD=M('#a9998a');for(let i=0;i<15;i++){const u=i/14,x=1060+u*1150,z=420+Math.sin(u*5)*170+u*260;const s=cyl(scene,i%2?stM:stD,26+r2()*8,5,x,2,z);s.scale.z*=.8;s.rotation.y=r2()*3;s.castShadow=false;}
   // low-poly rocks
